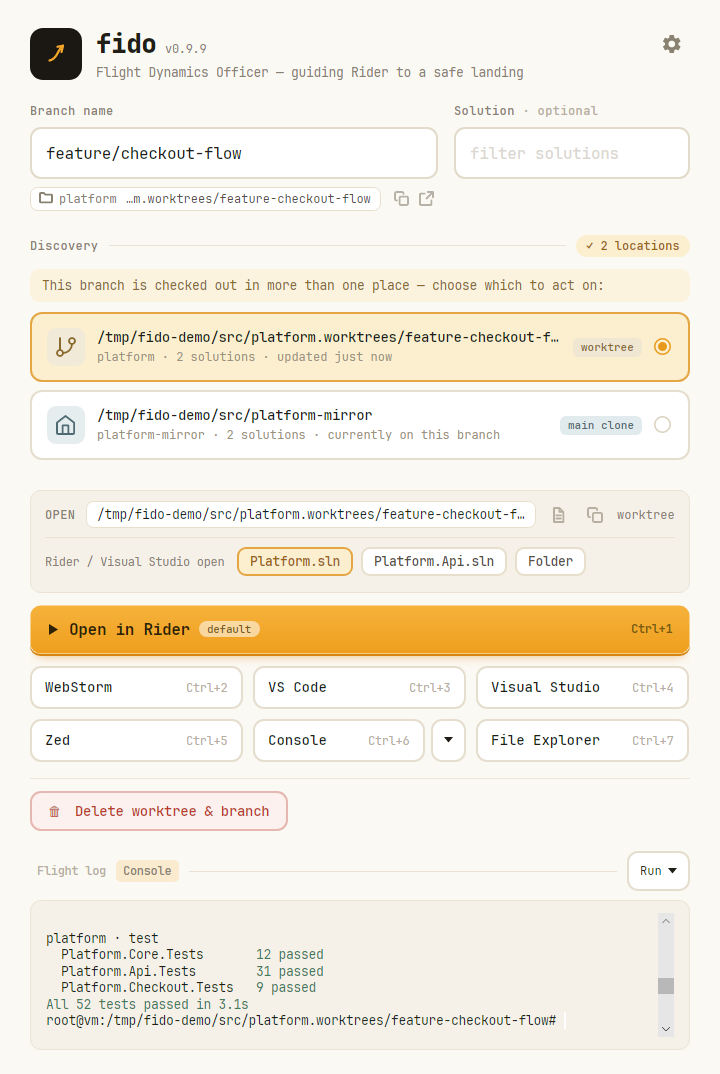
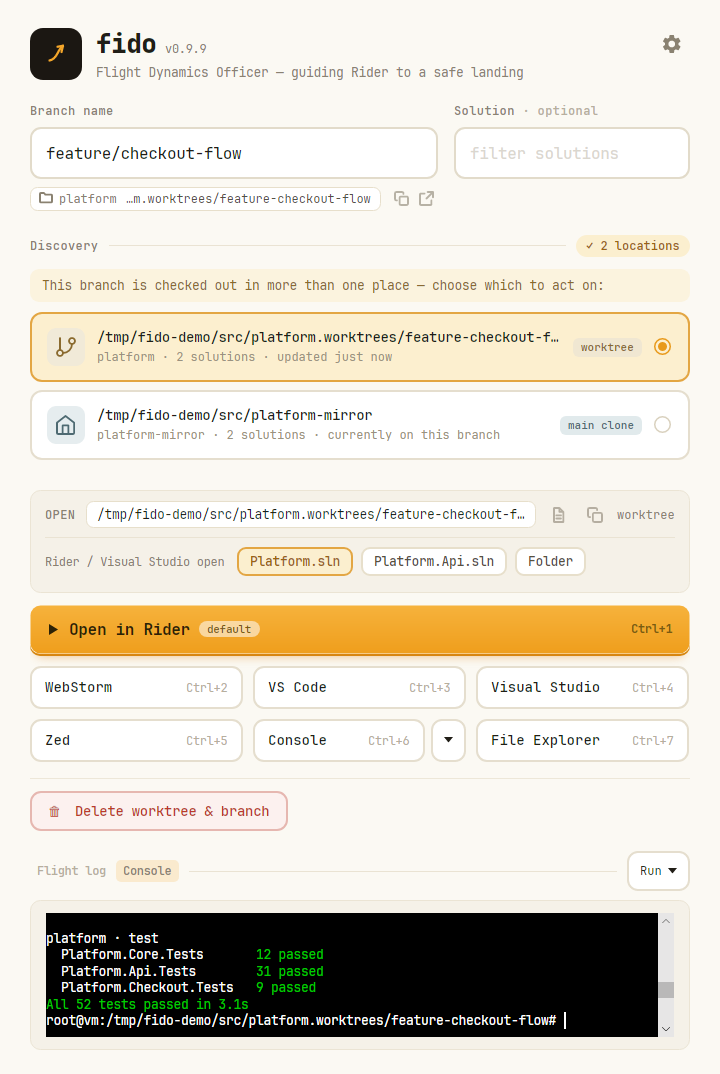
Make the console's Fido palette a setting, off by default
Review on #44: "the console has a plain, default colour scheme for better
visibility". That is exactly what main does - the palette was built and then
thrown away, applied after LaunchProcess and with the control's own brushes
never set - so the fix in this branch changed the console's appearance as a side
effect of making the code do what it said. Reproduced both in a real X11 window,
not the headless harness: without the fix, stock black and xterm colours; with
it, Fido's cream ground and the flight log's own greens.

So keep both, and let the setting decide:

- AppConfig.ConsoleUsesFidoPalette, default false. An existing config has no
  entry for it and so keeps the plain scheme, which is what it shows today.
- Settings -> Theme -> "Colour the Console tab to match", under the theme
  picker because it is a presentation choice, not a run one.
- ConsolePane.UseFidoPalette carries it, set from the config at startup and
  again when settings are saved. Off, the control's Background/Foreground are
  cleared rather than written, so what shows is the emulator's scheme exactly
  as it ships it; the next launch seeds itself from that.

Either way the colours are taken when a shell starts, so a shell already running
keeps the ones it came up with - the setting, like a change of theme, applies
from the next run.

Docs and gallery follow: the Console tab page gains an "Its colours" section
covering both, settings reference and defaults name the new switch, and the
[…]

Changed region(s): [[0.0611, 0.8296, 0.9167, 0.9832]]

diff --git a/src/Views/ConsolePane.axaml.cs b/src/Views/ConsolePane.axaml.cs
@@ -29,6 +29,7 @@ public partial class ConsolePane : UserControl
     public event EventHandler? ProcessExited;
 
     private bool _started;
+    private bool _useFidoPalette;
 
     public ConsolePane()
     {
@@ -38,6 +39,26 @@ public partial class ConsolePane : UserControl
         // the app is running, not just when the user picks one in Settings.
         if (Application.Current is { } app)
             app.ActualThemeVariantChanged += (_, _) => ApplyPalette();
+    }
+
+    /// <summary>
+    /// Whether the terminal wears Fido's palette rather than the emulator's own scheme
+    /// (<see cref="Models.AppConfig.ConsoleUsesFidoPalette"/>, off by default). The host sets it from the
+    /// config at startup and again whenever settings are saved.
+    ///
+    /// Switching it takes effect from the next shell, not this one: the emulator reads its colours when a
+    /// process launches and keeps that copy. Turning it off does clear the control's own brushes straight
+    /// away, since those are what the next launch would otherwise seed itself from.
+    /// </summary>
+    public bool UseFidoPalette
+    {
+        get => _useFidoPalette;
+        set
+        {
+            if (_useFidoPalette == value) return;
+            _useFidoPalette = value;
+            ApplyPalette();
+        }
     }
 
     /// <summary>Whether a shell has been started (and so whether there is anything to kill or re-run).</summary>
@@ -78,10 +99,10 @@ public partial class ConsolePane : UserControl
         Terminal.IsVisible = true;
         _started = true;
 
-        // Colour it *before* the shell starts. The emulator takes its colours when the process is
-        // launched and keeps that copy: a palette applied afterwards leaves Options.Theme holding
-        // Fido's values while the screen still paints xterm's stock black. Measured, not assumed —
-        // see ConsoleTabTests.The_console_takes_Fidos_palette_before_the_shell_starts.
+        // Settle the colours *before* the shell starts. The emulator takes them when the process is
+        // launched and keeps that copy: a palette applied afterwards leaves Options.Theme holding Fido's
+        // values while the screen still paints the stock scheme. Measured, not assumed — see
+        // ConsoleTabTests.The_console_takes_Fidos_palette_before_the_shell_starts.
         ApplyPalette();
 
         var shell = RunnerShell.For(command);
@@ -110,7 +131,8 @@ public partial class ConsolePane : UserControl
         Dispatcher.UIThread.Post(() => ProcessExited?.Invoke(this, EventArgs.Empty));
 
     /// <summary>
-    /// Puts Fido's own ANSI palette on the terminal, ready for the next shell.
+    /// Puts Fido's own ANSI palette on the terminal, ready for the next shell — or takes it off again,
+    /// when <see cref="UseFidoPalette"/> is off, which is the default.
     ///
     /// Two things have to happen together, and both are the result of measurement rather than the docs:
     ///
@@ -131,6 +153,15 @@ public partial class ConsolePane : UserControl
     /// </summary>
     private void ApplyPalette()
     {
+        if (!_useFidoPalette)
+        {
+            // Hand the control back its own colours. Clearing rather than writing defaults, so what shows
+            // is the emulator's scheme exactly as it ships it.
+            Terminal.ClearValue(BackgroundProperty);
+            Terminal.ClearValue(ForegroundProperty);
+            return;
+        }
+
         var variant = Application.Current?.ActualThemeVariant ?? ThemeVariant.Light;
         var palette = TerminalPalette.For(variant);
 

diff --git a/tests/Fido.Tests/E2E/ConsoleTabTests.cs b/tests/Fido.Tests/E2E/ConsoleTabTests.cs
@@ -190,12 +190,12 @@ public class ConsoleTabTests
     }
 
     /// <summary>
-    /// The console is wearing Fido's colours before the shell starts.
+    /// With the setting on, the console is wearing Fido's colours before the shell starts.
     ///
     /// The brushes are what this pins, because they are what the emulator seeds itself from: leave them
-    /// at their defaults and it ignores the palette in <c>Options.Theme</c> entirely — stock black
-    /// ground, stock colours — however carefully that object was filled in. They are also set on the
-    /// control itself, so this holds whether or not the headless harness gave the pane a template.
+    /// at their defaults and it ignores the palette in <c>Options.Theme</c> entirely — stock ground,
+    /// stock colours — however carefully that object was filled in. They are also set on the control
+    /// itself, so this holds whether or not the headless harness gave the pane a template.
     ///
     /// Ordering is the other half, and it is why <c>ApplyPalette</c> runs before <c>LaunchProcess</c>:
     /// the emulator takes its colours at launch and keeps that copy, so a palette applied afterwards
@@ -208,7 +208,8 @@ public class ConsoleTabTests
     {
         var (world, root) = PlainRepo();
         using var _ = world;
-        var services = world.BuildServices([root], new FakeEditorLauncher(), new FakeDialogService());
+        var services = world.BuildServices([root], new FakeEditorLauncher(), new FakeDialogService(),
+            consoleUsesFidoPalette: true);
 
         await Harness.WithWindow(services, async window =>
         {
@@ -232,6 +233,38 @@ public class ConsoleTabTests
                 await Assert.That(theme.Green).IsEqualTo("#3E7C55");
                 await Assert.That(terminal.Options.MinimumContrastRatio).IsEqualTo(TerminalPalette.MinimumContrast);
             }
+
+            App.ApplyTheme(AppTheme.System);
+        });
+    }
+
+    /// <summary>
+    /// And with the setting off — the default — Fido keeps its hands off the colours entirely, so the
+    /// console comes up in the scheme the emulator ships with. Asserted on the brushes again, because
+    /// setting those is what makes any of it take.
+    /// </summary>
+    [Test]
+    [Timeout(120_000)]
+    public async Task By_default_the_console_keeps_the_terminals_own_colours()
+    {
+        var (world, root) = PlainRepo();
+        using var _ = world;
+        var services = world.BuildServices([root], new FakeEditorLauncher(), new FakeDialogService());
+
+        await Harness.WithWindow(services, async window =>
+        {
+            App.ApplyTheme(AppTheme.Light);
+            UiTestExtensions.Pump();
+
+            await window.Discover("main");
+            await window.RunConsoleOptionAsync(window.Vm().ConsoleTabRuns[0]);   // shell here
+
+            var pane = window.FindControl<ConsolePane>("ConsoleView")!;
+            var terminal = pane.FindControl<Iciclecreek.Terminal.TerminalControl>("Terminal")!;
+
+            await Assert.That(pane.UseFidoPalette).IsFalse();
+            await Assert.That((terminal.Background as ISolidColorBrush)?.Color).IsNotEqualTo(Color.Parse("#F5F1E8"));
+            await Assert.That(terminal.Options?.Theme?.Background).IsNotEqualTo("#F5F1E8");
 
             App.ApplyTheme(AppTheme.System);
         });

diff --git a/tests/Fido.Tests/E2E/GalleryScreenshotTests.cs b/tests/Fido.Tests/E2E/GalleryScreenshotTests.cs
@@ -133,15 +133,19 @@ public class GalleryScreenshotTests
 
             // 6. The Console tab: the branch's own build script, run over a real pseudo-terminal — and
             //    the Run menu that started it. Its own theme loop rather than CapturePairAsync, because
-            //    the script has to be re-run per theme: the emulator takes its colours when the shell
-            //    launches and keeps them, so a shell started dark stays dark however the app is themed.
+            //    the script has to be re-run for each shot: the emulator takes its colours when the shell
+            //    launches and keeps them, so neither the theme nor the palette setting reaches a shell
+            //    that is already up.
             var script = window.Vm().ConsoleTabRuns.First(run => run.Label.StartsWith("build."));
             var runMenu = window.FindControl<Button>("ConsoleRunsButton")!;
+            var pane = window.FindControl<ConsolePane>("ConsoleView")!;
             foreach (var (theme, suffix) in Themes)
             {
                 App.ApplyTheme(theme);
                 UiTestExtensions.Pump();
 
+                // The default: the terminal's own scheme, which is what a fresh install shows.
+                pane.UseFidoPalette = false;
                 await window.RunConsoleOptionAsync(script);
                 await SettleAsync(TimeSpan.FromSeconds(12));   // let the shell start, run and paint
                 Screenshots.Save(window, $"console-tab-{suffix}");
@@ -152,6 +156,13 @@ public class GalleryScreenshotTests
                 Screenshots.Save(window, $"console-run-menu-{suffix}");
                 runMenu.Flyout?.Hide();
                 UiTestExtensions.Pump();
+
+                // And the same run with Settings → Theme → "Colour the Console tab to match" ticked.
+                pane.UseFidoPalette = true;
+                await window.RunConsoleOptionAsync(script);
+                await SettleAsync(TimeSpan.FromSeconds(12));
+                Screenshots.Save(window, $"console-palette-{suffix}");
+                pane.UseFidoPalette = false;
             }
 
             // Back to the narration, and rescan so the log holds one clean flight rather than the

diff --git a/src/ViewModels/SettingsViewModel.cs b/src/ViewModels/SettingsViewModel.cs
@@ -17,6 +17,7 @@ public sealed class SettingsViewModel : ObservableObject
     private bool _showTargetInWindowTitle = true;
     private bool _pullBeforeRun = true;
     private bool _runInFido;
+    private bool _consoleUsesFidoPalette;
     private CloseAfterOpen _closeAfterOpen = CloseAfterOpen.CommandLine;
     private string _closeAfterOpenDelayText = AppConfig.DefaultCloseAfterOpenDelaySeconds.ToString(CultureInfo.InvariantCulture);
 
@@ -123,6 +124,14 @@ public sealed class SettingsViewModel : ObservableObject
         set => SetField(ref _runInFido, value);
     }
 
+    /// <summary>Whether the Console tab's terminal wears Fido's palette rather than the emulator's own
+    /// scheme. Off by default; a shell already running keeps the colours it started with.</summary>
+    public bool ConsoleUsesFidoPalette
+    {
+        get => _consoleUsesFidoPalette;
+        set => SetField(ref _consoleUsesFidoPalette, value);
+    }
+
     public CloseAfterOpen CloseAfterOpen
     {
         get => _closeAfterOpen;
@@ -191,6 +200,7 @@ public sealed class SettingsViewModel : ObservableObject
         ShowTargetInWindowTitle = config.ShowTargetInWindowTitle;
         PullBeforeRun = config.PullBeforeRun;
         RunInFido = config.RunInFido;
+        ConsoleUsesFidoPalette = config.ConsoleUsesFidoPalette;
         CloseAfterOpen = config.CloseAfterOpen;
         CloseAfterOpenDelayText = config.CloseAfterOpenDelaySeconds.ToString(CultureInfo.InvariantCulture);
     }
@@ -212,6 +222,7 @@ public sealed class SettingsViewModel : ObservableObject
         config.ShowTargetInWindowTitle = ShowTargetInWindowTitle;
         config.PullBeforeRun = PullBeforeRun;
         config.RunInFido = RunInFido;
+        config.ConsoleUsesFidoPalette = ConsoleUsesFidoPalette;
         config.CloseAfterOpen = CloseAfterOpen;
         config.CloseAfterOpenDelaySeconds = ParseDelaySeconds(CloseAfterOpenDelayText);
         // config.NewBranchRepos is deliberately left untouched: the redesigned main screen no longer

diff --git a/src/Models/AppConfig.cs b/src/Models/AppConfig.cs
@@ -100,6 +100,18 @@ public sealed class AppConfig
     /// </summary>
     public bool RunInFido { get; set; }
 
+    /// <summary>
+    /// Whether the Console tab's terminal is painted in Fido's own palette — the brushes the flight log
+    /// draws with — instead of the scheme the terminal emulator ships with.
+    ///
+    /// Off by default, because plain is legible: the stock scheme is high-contrast by construction, and a
+    /// console is a place people expect to look like a console. On, the ground and the sixteen ANSI colours
+    /// come from <c>TerminalPalette</c> and follow the app's theme, which reads as one window rather than a
+    /// terminal dropped into one. Either way the colours are taken when a shell starts, so a shell already
+    /// running keeps the ones it has.
+    /// </summary>
+    public bool ConsoleUsesFidoPalette { get; set; }
+
     /// <summary>When Fido closes itself after a successful launch; defaults to command-line launches only.</summary>
     public CloseAfterOpen CloseAfterOpen { get; set; } = CloseAfterOpen.CommandLine;
 

diff --git a/src/Views/MainWindow.axaml.cs b/src/Views/MainWindow.axaml.cs
@@ -108,6 +108,7 @@ public partial class MainWindow : Window
         _runDefaultToolIndex = _config.DefaultEditorIndex;
         _vm.SetEditors(_config.Editors, _runDefaultToolIndex);
         RebuildDefaultToolChoices();
+        ConsoleView.UseFidoPalette = _config.ConsoleUsesFidoPalette;
 
         // Typing in the branch box debounces into a scan; Enter (below) fires one immediately.
         _scanDebounce = new DispatcherTimer { Interval = ScanDebounce };
@@ -1154,6 +1155,8 @@ public partial class MainWindow : Window
         _runDefaultToolIndex = _config.DefaultEditorIndex;
         _vm.SetEditors(_config.Editors, _runDefaultToolIndex);
         RebuildDefaultToolChoices();
+        // Takes effect from the next shell: the one running kept the colours it started with.
+        ConsoleView.UseFidoPalette = _config.ConsoleUsesFidoPalette;
     }
 
     // --- Keyboard -------------------------------------------------------------------------

diff --git a/tests/Fido.Tests/Infrastructure/TestRepoWorld.cs b/tests/Fido.Tests/Infrastructure/TestRepoWorld.cs
@@ -236,6 +236,7 @@ public sealed class TestRepoWorld : IDisposable
         int closeAfterOpenDelaySeconds = 0,
         bool pullBeforeRun = true,
         bool runInFido = false,
+        bool consoleUsesFidoPalette = false,
         GitService? git = null,
         GitHubCli? gitHub = null)
     {
@@ -249,6 +250,7 @@ public sealed class TestRepoWorld : IDisposable
             CloseAfterOpenDelaySeconds = closeAfterOpenDelaySeconds,
             PullBeforeRun = pullBeforeRun,
             RunInFido = runInFido,
+            ConsoleUsesFidoPalette = consoleUsesFidoPalette,
         };
 
         var configDir = Path.Combine(Root, "config", Guid.NewGuid().ToString("N"));

diff --git a/docs/guide/console.md b/docs/guide/console.md
@@ -104,16 +104,25 @@ very folder holding it.
 - **Closing Fido stops it.** The shell is a child process of Fido, and an orphan with no terminal
   attached would only linger.
 
-## It wears Fido's colours
+## Its colours
 
-The terminal uses **Fido's palette**, not xterm's — the same brushes the flight log draws with, so
-a script's green `ok` and Fido's own `✓` are the same green, on the same warm ground. In the light
-theme the `Bright*` colours are **darker** than their base, because on a pale background emphasis
-means more contrast, not less; and a **contrast floor** lifts anything that would land unreadable,
-which is what keeps 256-colour output — chosen by its author against black — legible on cream.
+Out of the box the console keeps the **terminal emulator's own scheme** — the plain, high-contrast
+one every terminal starts life with. It is a console, and it looks like one.
 
-The palette is taken when the shell starts, so a **shell already running keeps the colours it
-started with**; change theme and the next run comes up in the new one.
+**Settings → Theme → _Colour the Console tab to match_** swaps that for **Fido's own palette**: the
+same brushes the flight log draws with, so a script's green `ok` and Fido's own `✓` are the same
+green, on the same warm ground, in whichever theme you are running.
+
+![The Console tab in Fido's own palette](../assets/screenshots/console-palette-light.png#only-light)
+![The Console tab in Fido's own palette](../assets/screenshots/console-palette-dark.png#only-dark)
+
+Two details of that palette are deliberate. In the light theme the `Bright*` colours are **darker**
+than their base, because on a pale background emphasis means more contrast, not less. And a
+**contrast floor** lifts anything that would otherwise land unreadable, which is what keeps
+256-colour output — chosen by its author against black — legible on cream.
+
+Either way, the colours are taken **when the shell starts**: a **shell already running keeps the
+ones it came up with**, and the setting, like a change of theme, applies from the next run.
 
 ## Or hand it to your own terminal
 

diff --git a/docs/reference/settings.md b/docs/reference/settings.md
@@ -22,7 +22,10 @@ Reach these via ⚙ → **All settings…**.
 - **Worktree root** — leave blank for the sibling `<repo>.worktrees` convention. Setting one also collapses
   the **worktree folders line** under the branch box to a single row, answered from the branch name alone
   with no scan needed (see **[The branch's worktree folders](../guide/discovery.md#the-branchs-worktree-folders)**).
-- **Theme** — **System**, **Light**, or **Dark**.
+- **Theme** — **System**, **Light**, or **Dark**, plus **Colour the Console tab to match**
+  *(default off)*. Off, [the Console tab](../guide/console.md#its-colours) keeps the terminal
+  emulator's own plain scheme; on, its ground and its sixteen ANSI colours come from Fido's palette and
+  follow the theme. A shell already running keeps the colours it started with.
 - **Window title** — **Show the repo and branch once discovery resolves them** *(default on)*. On, a
   resolved branch renames the window to `<repo> · <branch>` (see
   **[The window title](../guide/interface.md#the-window-title)**); untick it
@@ -54,6 +57,7 @@ Reach these via ⚙ → **All settings…**.
 - **Search depth:** 4.
 - **Close after opening:** command-line launches only, with a **10-second** close delay.
 - **Window title:** shows `<repo> · <branch>` once discovery resolves.
+- **Console tab colours:** the terminal's own scheme; Fido's palette is opt-in.
 - **Before running:** fast-forwards the target onto `origin` when you pick a run command; a pick from
   the Console button's run menu goes to **your** terminal, not Fido's Console tab.
 

diff --git a/CHANGELOG.md b/CHANGELOG.md
@@ -69,9 +69,11 @@ and this project adheres to [Semantic Versioning](https://semver.org/spec/v2.0.0
   tree root is made explicitly relative (`& ./build.ps1`) instead of coming back *"not recognized as the
   name of a cmdlet…"* while you stand in the very folder that holds it.
 
-  It wears **Fido's palette** rather than xterm's, per theme, with a contrast floor for the 256-colour
-  output no palette can speak for — the stock colours are built for pure black and are close to
-  illegible on the warm cream panel.
+  **Its colours are the terminal's own**, which is what a console is expected to look like, and
+  **Settings → Theme → Colour the Console tab to match** swaps them for Fido's palette — the flight
+  log's own greens and ambers, following the theme, with a contrast floor for the 256-colour output no
+  palette can speak for. Either way the colours are taken when a shell starts, so one already running
+  keeps the ones it came up with.
 
 - **A setting for where a run-menu pick lands.** **Settings → Before running → Run it in Fido's Console
   tab** *(off by default)* decides what the **Console button's** run menu does: hand the command to the

diff --git a/docs/screenshots.md b/docs/screenshots.md
@@ -88,6 +88,13 @@ the branch's `.fido/cfg.yaml` nominated — its run files and `aspire start` —
 ![The Console tab's Run menu](assets/screenshots/console-run-menu-light.png#only-light)
 ![The Console tab's Run menu](assets/screenshots/console-run-menu-dark.png#only-dark)
 
+The console keeps the terminal's own colours by default. Tick **Settings → Theme → Colour the
+Console tab to match** and it takes Fido's palette instead — the flight log's own greens and ambers,
+following the theme.
+
+![The Console tab in Fido's own palette](assets/screenshots/console-palette-light.png#only-light)
+![The Console tab in Fido's own palette](assets/screenshots/console-palette-dark.png#only-dark)
+
 ---
 
 ## Settings
